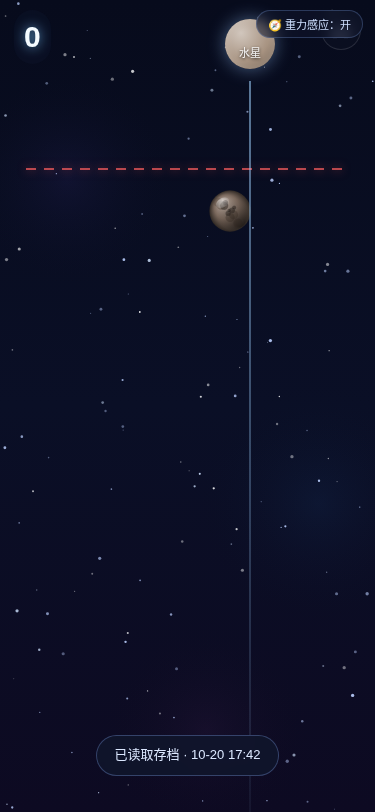
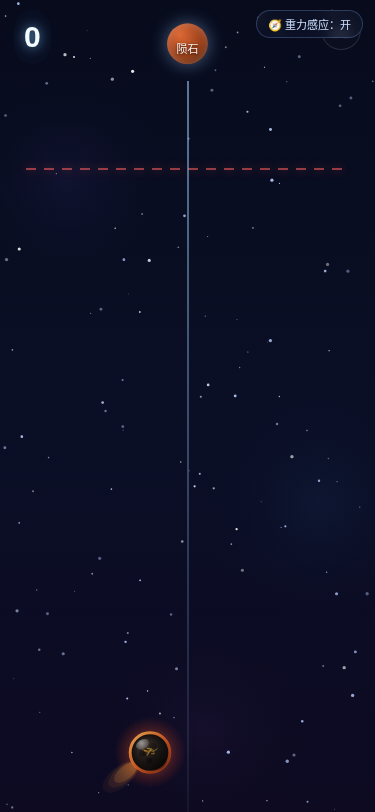
feat(merge-planet): 陨石重做为火流星与水星区分，同步图鉴截图 (2026-10-20)

Changed region(s): [[0.44, 0.0, 0.7627, 0.8929], [0.2933, 0.8929, 0.4987, 0.9852], [0.528, 0.9236, 0.704, 0.9544]]

diff --git a/src/tools/mini-games/gpu-games/merge-planet/game/render.ts b/src/tools/mini-games/gpu-games/merge-planet/game/render.ts
@@ -143,6 +143,87 @@ function craters(ctx: CanvasRenderingContext2D, x: number, y: number, r: number,
   }
 }
 
+/** 火流星（陨石 index0）：深炭黑岩石本体 + 烧蚀橙红熔壳亮边 + 暖黄熔岩裂纹 + 反向彗尾火焰。 */
+function drawMeteor(ctx: CanvasRenderingContext2D, x: number, y: number, r: number, seed: number, timeSec: number): void {
+  const flicker = 1 + Math.sin(timeSec * 9 + seed) * 0.08
+  // 反向彗尾火焰（固定朝左下，模拟运动反方向的拖尾），先画在岩石之后
+  const tailA = Math.PI * 0.78
+  const tx = x + Math.cos(tailA) * r * 0.9
+  const ty = y + Math.sin(tailA) * r * 0.9
+  for (let i = 3; i >= 1; i--) {
+    const len = r * (0.9 + i * 0.32) * flicker
+    const ex = tx + Math.cos(tailA) * len
+    const ey = ty + Math.sin(tailA) * len
+    const tg = ctx.createRadialGradient(tx, ty, 0, ex, ey, len)
+    tg.addColorStop(0, `rgba(255,180,70,${0.32 / i})`)
+    tg.addColorStop(1, 'rgba(255,90,30,0)')
+    ctx.fillStyle = tg
+    ctx.beginPath()
+    ctx.ellipse(tx + Math.cos(tailA) * len * 0.5, ty + Math.sin(tailA) * len * 0.5, len * 0.55, len * 0.26, tailA, 0, Math.PI * 2)
+    ctx.fill()
+  }
+
+  // 外层熔壳辉光（小尺寸也一眼可认的高饱和橙红）
+  const halo = ctx.createRadialGradient(x, y, r * 0.5, x, y, r * 1.7 * flicker)
+  halo.addColorStop(0, 'rgba(255,120,40,0.45)')
+  halo.addColorStop(0.6, 'rgba(220,70,30,0.18)')
+  halo.addColorStop(1, 'rgba(200,60,20,0)')
+  ctx.fillStyle = halo
+  ctx.beginPath()
+  ctx.arc(x, y, r * 1.7 * flicker, 0, Math.PI * 2)
+  ctx.fill()
+
+  // 深炭黑岩石本体
+  const body = ctx.createRadialGradient(x - r * 0.3, y - r * 0.35, r * 0.1, x, y, r)
+  body.addColorStop(0, '#3b312d')
+  body.addColorStop(0.6, '#1c1715')
+  body.addColorStop(1, '#0a0808')
+  ctx.fillStyle = body
+  ctx.beginPath()
+  ctx.arc(x, y, r, 0, Math.PI * 2)
+  ctx.fill()
+
+  clipCircle(ctx, x, y, r, () => {
+    // 暗坑纹理
+    for (let i = 0; i < 5; i++) {
+      const a = hash01(seed * 11 + i) * Math.PI * 2
+      const d = hash01(seed * 13 + i) * r * 0.6
+      ctx.fillStyle = `rgba(0,0,0,${0.18 + hash01(seed + i) * 0.2})`
+      ctx.beginPath()
+      ctx.arc(x + Math.cos(a) * d, y + Math.sin(a) * d, r * (0.08 + hash01(i) * 0.1), 0, Math.PI * 2)
+      ctx.fill()
+    }
+    // 暖黄熔岩裂纹（锯齿折线，发光）
+    ctx.lineCap = 'round'
+    for (let i = 0; i < 5; i++) {
+      const a0 = hash01(seed * 21 + i) * Math.PI * 2
+      let px = x + Math.cos(a0) * r * 0.2
+      let py = y + Math.sin(a0) * r * 0.2
+      ctx.strokeStyle = `rgba(255,${150 + Math.floor(hash01(i) * 60)},60,${0.5 + hash01(seed + i) * 0.3})`
+      ctx.lineWidth = Math.max(0.7, r * 0.035)
+      ctx.beginPath()
+      ctx.moveTo(px, py)
+      for (let s = 1; s <= 3; s++) {
+        px += (hash01(seed * 31 + i * 7 + s) - 0.5) * r * 0.5
+        py += (hash01(seed * 33 + i * 5 + s) - 0.5) * r * 0.5
+        ctx.lineTo(px, py)
+      }
+      ctx.stroke()
+    }
+  })
+
+  // 烧蚀熔壳亮边（橙红，朝尾侧更亮）
+  const rim = ctx.createLinearGradient(x - r, y - r, x + r, y + r)
+  rim.addColorStop(0, 'rgba(255,190,90,0.9)')
+  rim.addColorStop(0.5, 'rgba(255,110,40,0.75)')
+  rim.addColorStop(1, 'rgba(200,60,25,0.55)')
+  ctx.lineWidth = r * 0.14
+  ctx.strokeStyle = rim
+  ctx.beginPath()
+  ctx.arc(x, y, r * 0.96, 0, Math.PI * 2)
+  ctx.stroke()
+}
+
 /** 画一颗星球（含土星环/黑洞吸积盘等专属特征）。 */
 export function paintPlanet(
   ctx: CanvasRenderingContext2D,
@@ -164,17 +245,8 @@ export function paintPlanet(
   if (tierIndex === 7) drawSaturnRing(ctx, x, y, r, true)
 
   switch (tierIndex) {
-    case 0: // 陨石：灰褐色岩石 + 坑洼
-      baseSphere(ctx, x, y, r, tier)
-      clipCircle(ctx, x, y, r, () => {
-        craters(ctx, x, y, r, seed, 6, 'rgba(40,32,28,0.5)')
-        for (let i = 0; i < 5; i++) {
-          ctx.fillStyle = `rgba(60,48,40,${0.18 + hash01(seed + i) * 0.2})`
-          ctx.beginPath()
-          ctx.arc(x + (hash01(seed * 5 + i) - 0.5) * r * 1.2, y + (hash01(seed * 6 + i) - 0.5) * r * 1.2, r * 0.22, 0, Math.PI * 2)
-          ctx.fill()
-        }
-      })
+    case 0: // 陨石（火流星）：深炭黑岩石 + 烧蚀橙红熔壳 + 熔岩裂纹 + 彗尾火焰，与灰色岩石星球区分
+      drawMeteor(ctx, x, y, r, seed, timeSec)
       break
     case 1: // 月球：灰 + 深色月海 + 带明暗边的环形山
       baseSphere(ctx, x, y, r, tier)

diff --git a/src/tools/mini-games/gpu-games/merge-planet/game/logic.ts b/src/tools/mini-games/gpu-games/merge-planet/game/logic.ts
@@ -34,7 +34,7 @@ export interface TierDef {
  * 分值按等级平方/指数递增、高级跃迁分差更大；合成第 18 级（宇宙）即通关大爆发结算。
  */
 export const TIERS: TierDef[] = [
-  { index: 0, id: 'meteorite', name: '陨石', radius: 0.06, baseScore: 10, hue: 24, sat: 14, light: 42 },
+  { index: 0, id: 'meteorite', name: '陨石', radius: 0.06, baseScore: 10, hue: 18, sat: 72, light: 34 },
   { index: 1, id: 'moon', name: '月球', radius: 0.11, baseScore: 20, hue: 220, sat: 8, light: 66 },
   { index: 2, id: 'mercury', name: '水星', radius: 0.16, baseScore: 30, hue: 28, sat: 18, light: 58 },
   { index: 3, id: 'mars', name: '火星', radius: 0.21, baseScore: 50, hue: 12, sat: 62, light: 52 },
